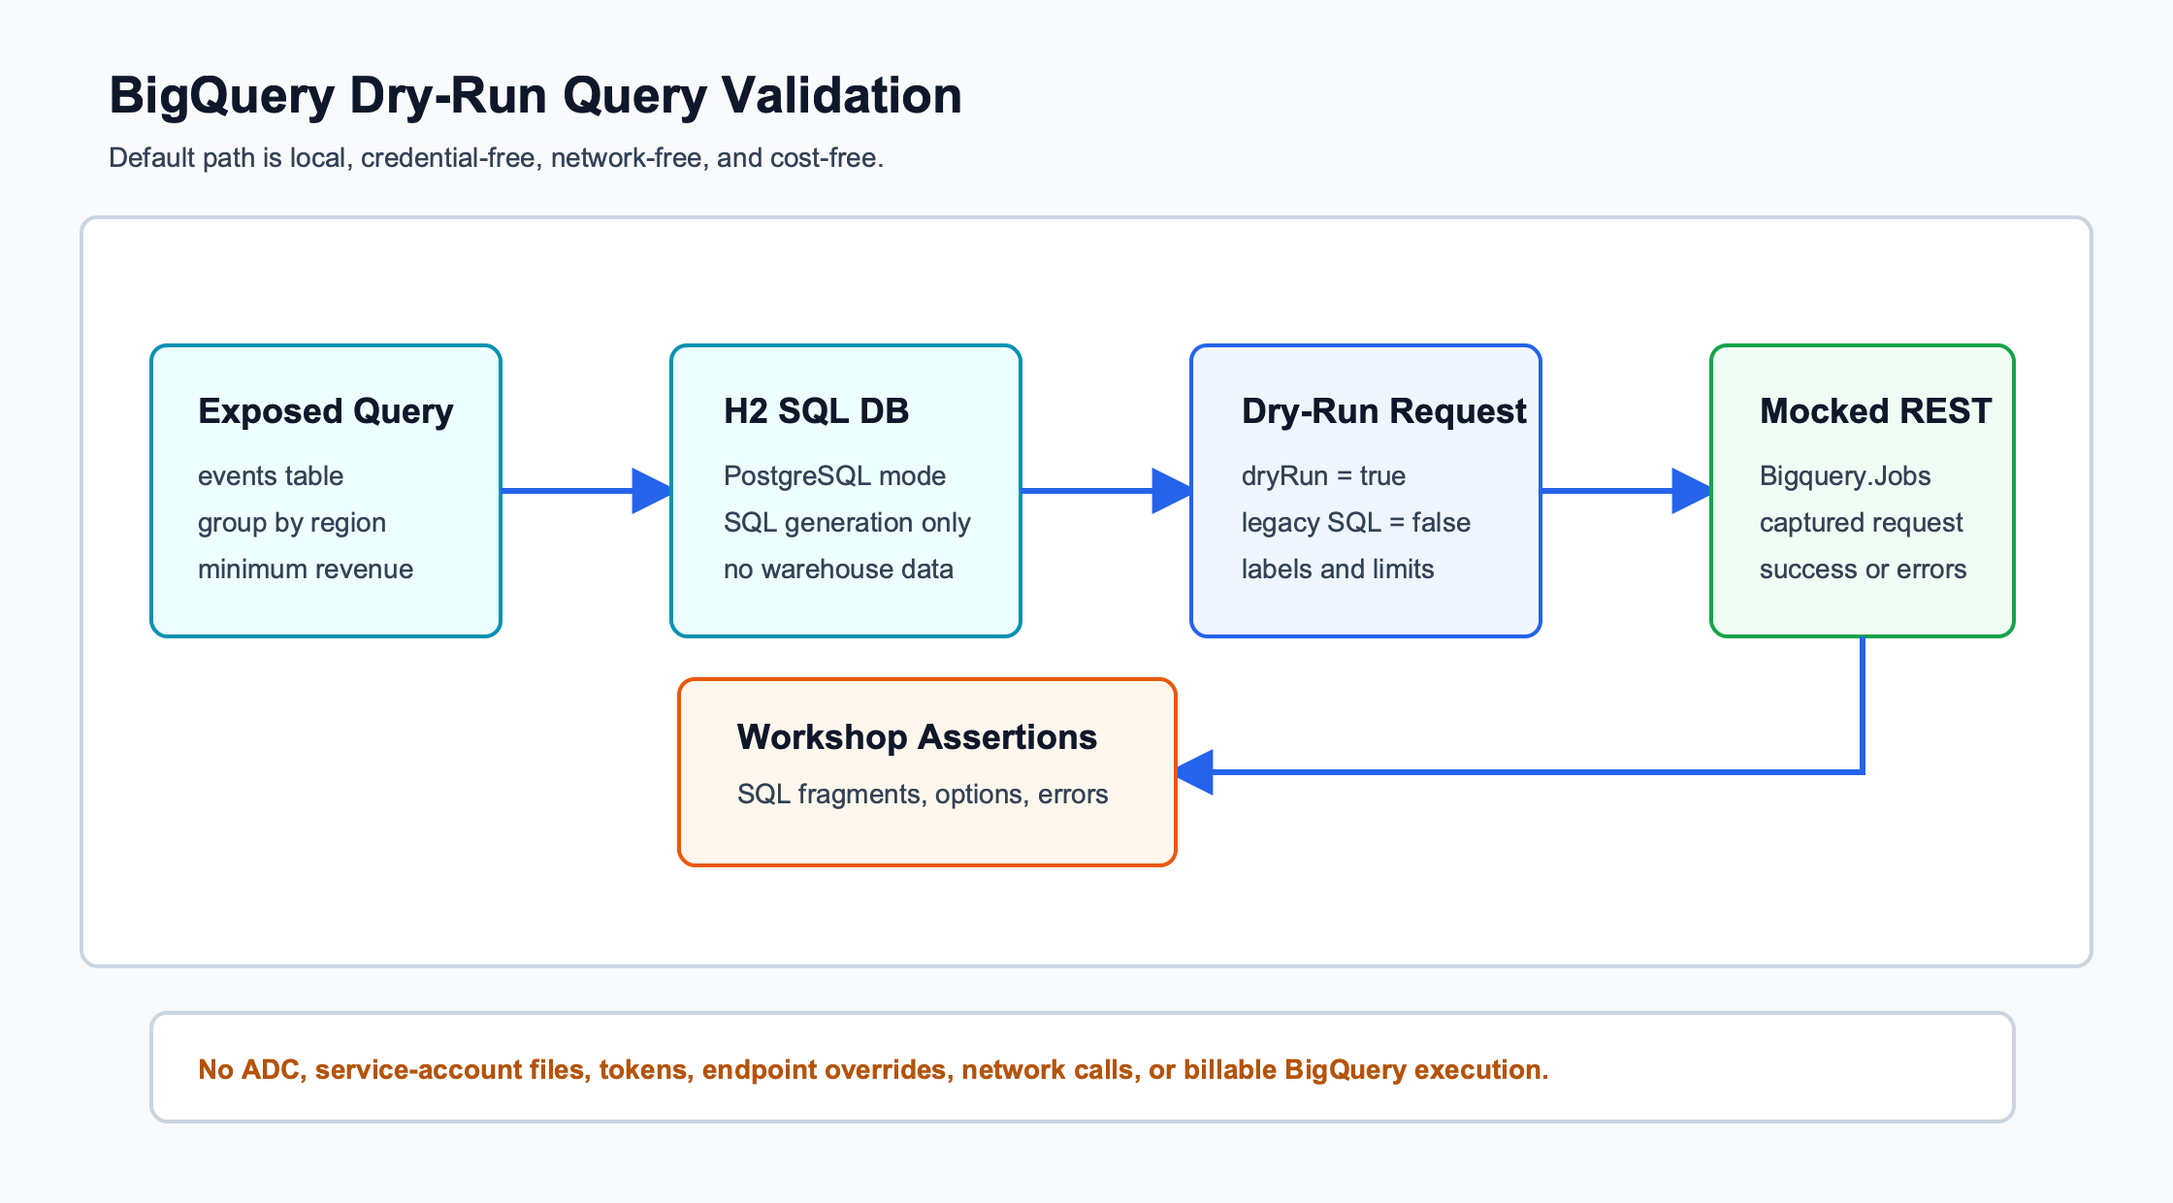
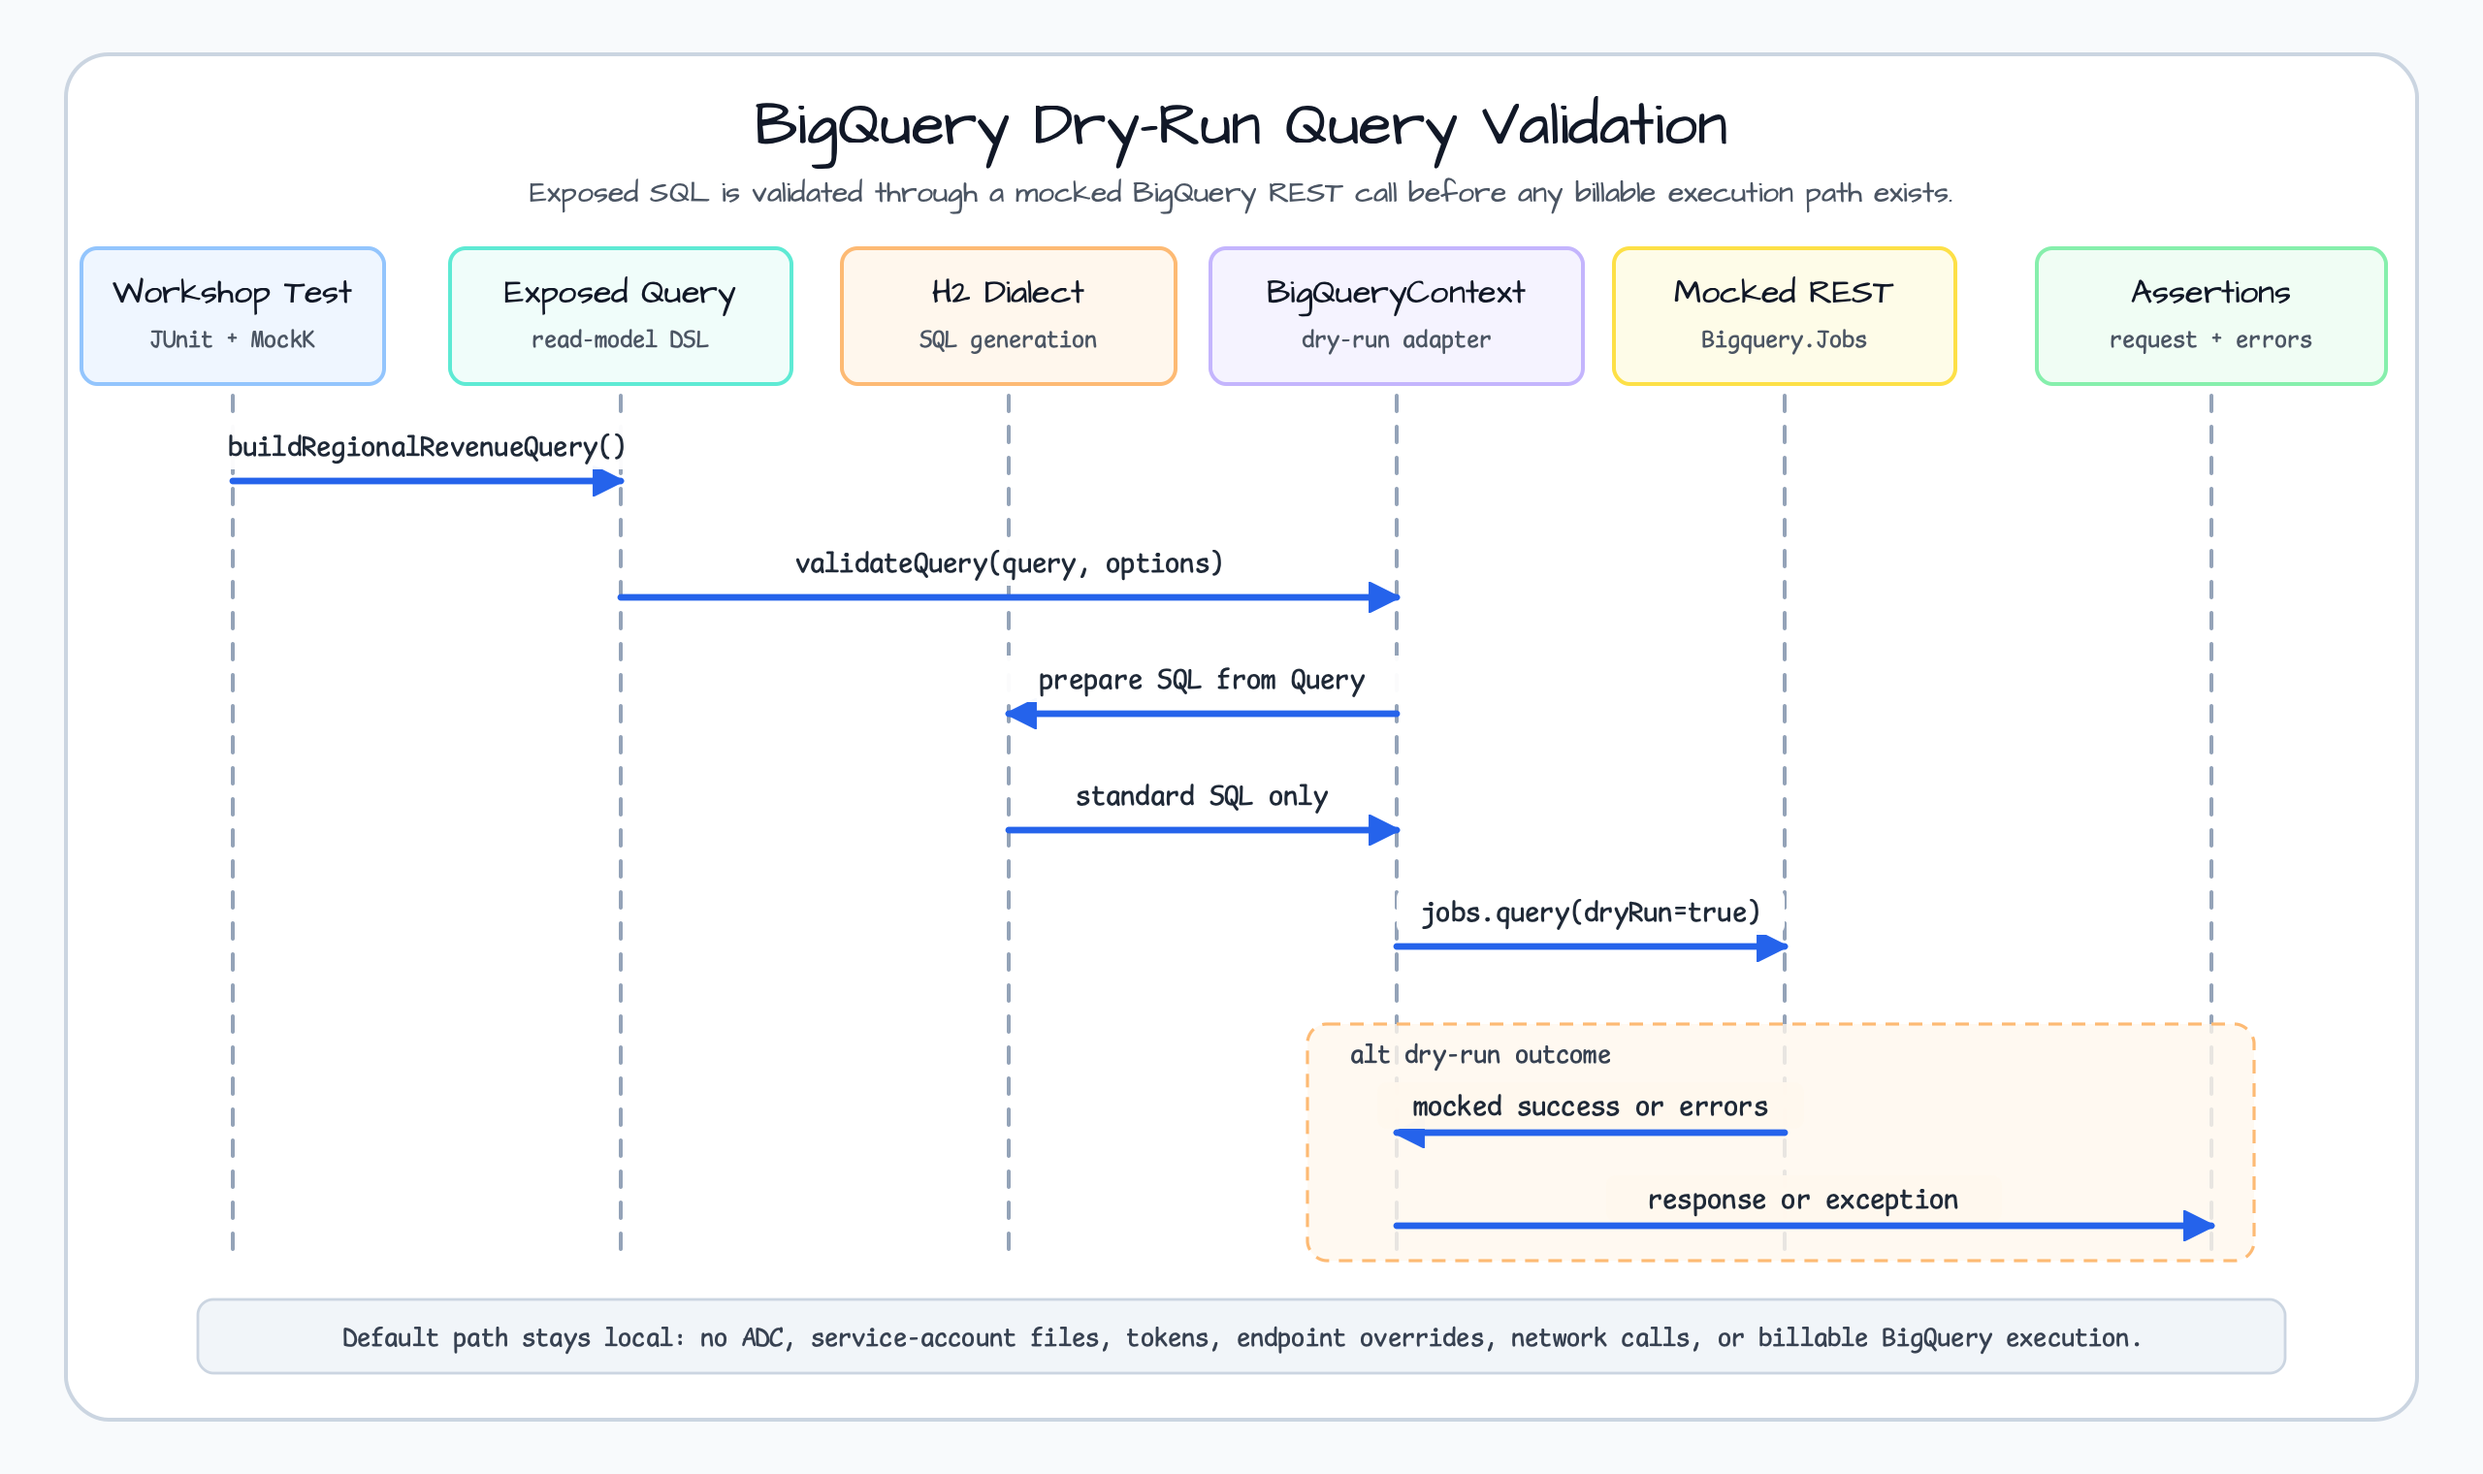
docs: align BigQuery dry-run diagram checklist
Constraint: bluetape4k-diagram requires source-backed sequence treatment and checklist evidence for ordered README flow visuals.

Rejected: keeping the generic flowchart | it failed the current font, marker, and connector-audit expectations.

Confidence: high

Scope-risk: narrow

Directive: Re-run diagram geometry, endpoint, marker/font, CairoSVG, and PNG visual checks before claiming README visual completion.

Tested: xmllint; diagram-geometry-audit geometry_failures=0; diagram-endpoint-audit endpoint_failures=0; marker/font audit; CairoSVG CLI render; full-size PNG inspection; git diff --check; actionlint .github/workflows/examples.yml; ./gradlew :01-bigquery-dry-run:build --no-daemon.

Not-tested: GitHub Actions after this follow-up commit pending.

diff --git a/docs/review/2026-06-29-issue-138-bigquery-dry-run-code-review.md b/docs/review/2026-06-29-issue-138-bigquery-dry-run-code-review.md
@@ -38,10 +38,21 @@
   `project ':01-bigquery-dry-run' - /13-ecosystem-integrations/01-bigquery-dry-run`.
 - `actionlint .github/workflows/examples.yml`: PASS.
 - README local-link Ruby check: PASS.
+- `$bluetape4k-diagram` correction: the first generic flowchart did not fully
+  satisfy the current README visual checklist, so the asset was redrawn as a
+  sequence diagram for the source-backed ordered validation flow.
 - `xmllint --noout docs/images/readme-diagrams/01-bigquery-dry-run-flow-01.svg`: PASS.
+- `python3 /Users/debop/.codex/skills/bluetape4k-diagram/references/diagram-geometry-audit.py docs/images/readme-diagrams/01-bigquery-dry-run-flow-01.svg`: PASS,
+  `geometry_failures=0`.
+- `python3 /Users/debop/.codex/skills/bluetape4k-diagram/references/diagram-endpoint-audit.py docs/images/readme-diagrams/01-bigquery-dry-run-flow-01.svg`: PASS,
+  `endpoint_failures=0`.
+- Marker/font audit: PASS; the SVG uses `Architects Daughter`, `Comic Mono`,
+  fixed `markerUnits="userSpaceOnUse"`, explicit `#2563eb` marker color, and no
+  `context-stroke` or implicit stroke-width marker.
 - CairoSVG render to
   `docs/images/readme-diagrams/01-bigquery-dry-run-flow-01.png`: PASS.
-- Rendered PNG visual QA: PASS; text is legible and boxes/arrows do not overlap.
+- Rendered PNG visual QA: PASS; sequence labels, lifelines, arrowheads, alt
+  region, and local-only note are legible and do not overlap.
 - `git diff --check`: PASS.
 
 ## Credential And Real-Client Scan

diff --git a/docs/lessons/2026-06-29-issue-138-bigquery-dry-run.md b/docs/lessons/2026-06-29-issue-138-bigquery-dry-run.md
@@ -23,6 +23,12 @@ execution and make the no-credential default explicit.
 
 - For cloud-adjacent examples, name the real API boundary being mocked instead
   of inventing a wrapper in the plan.
+- For README diagrams that show ordered calls or request/response behavior,
+  apply `$bluetape4k-diagram` as a gate before claiming completion and prefer a
+  sequence diagram over a generic flowchart.
+- Do not report diagram checklist success from SVG/XML plus visual inspection
+  alone. Run geometry audit, endpoint audit, marker/font checks, CairoSVG CLI
+  rendering, and full-size PNG inspection before recording PASS evidence.
 - Add the runnable Gradle task to `.github/workflows/examples.yml` in the same
   PR that introduces a child module.
 - Record explicit N/A evidence for CI, Nightly, summary `needs`, and coverage
